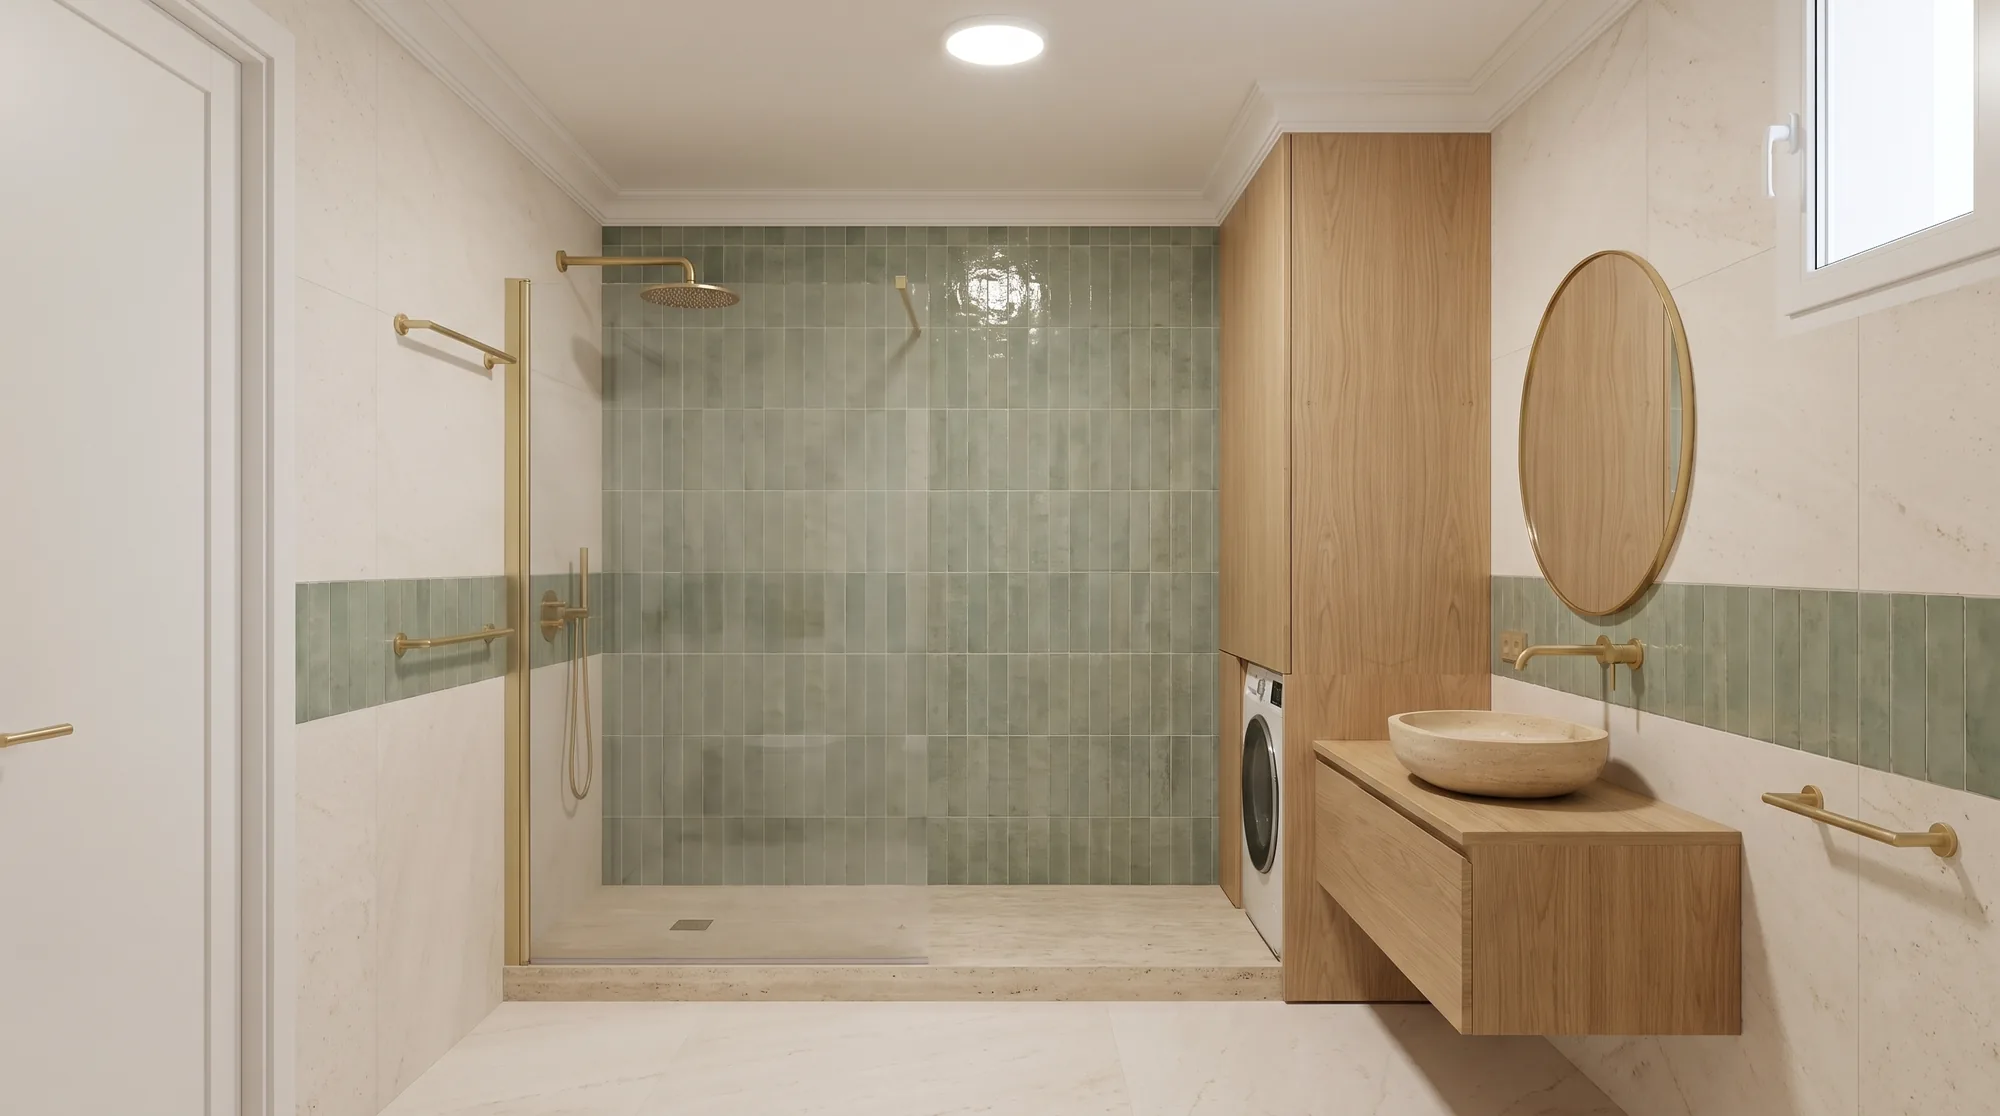
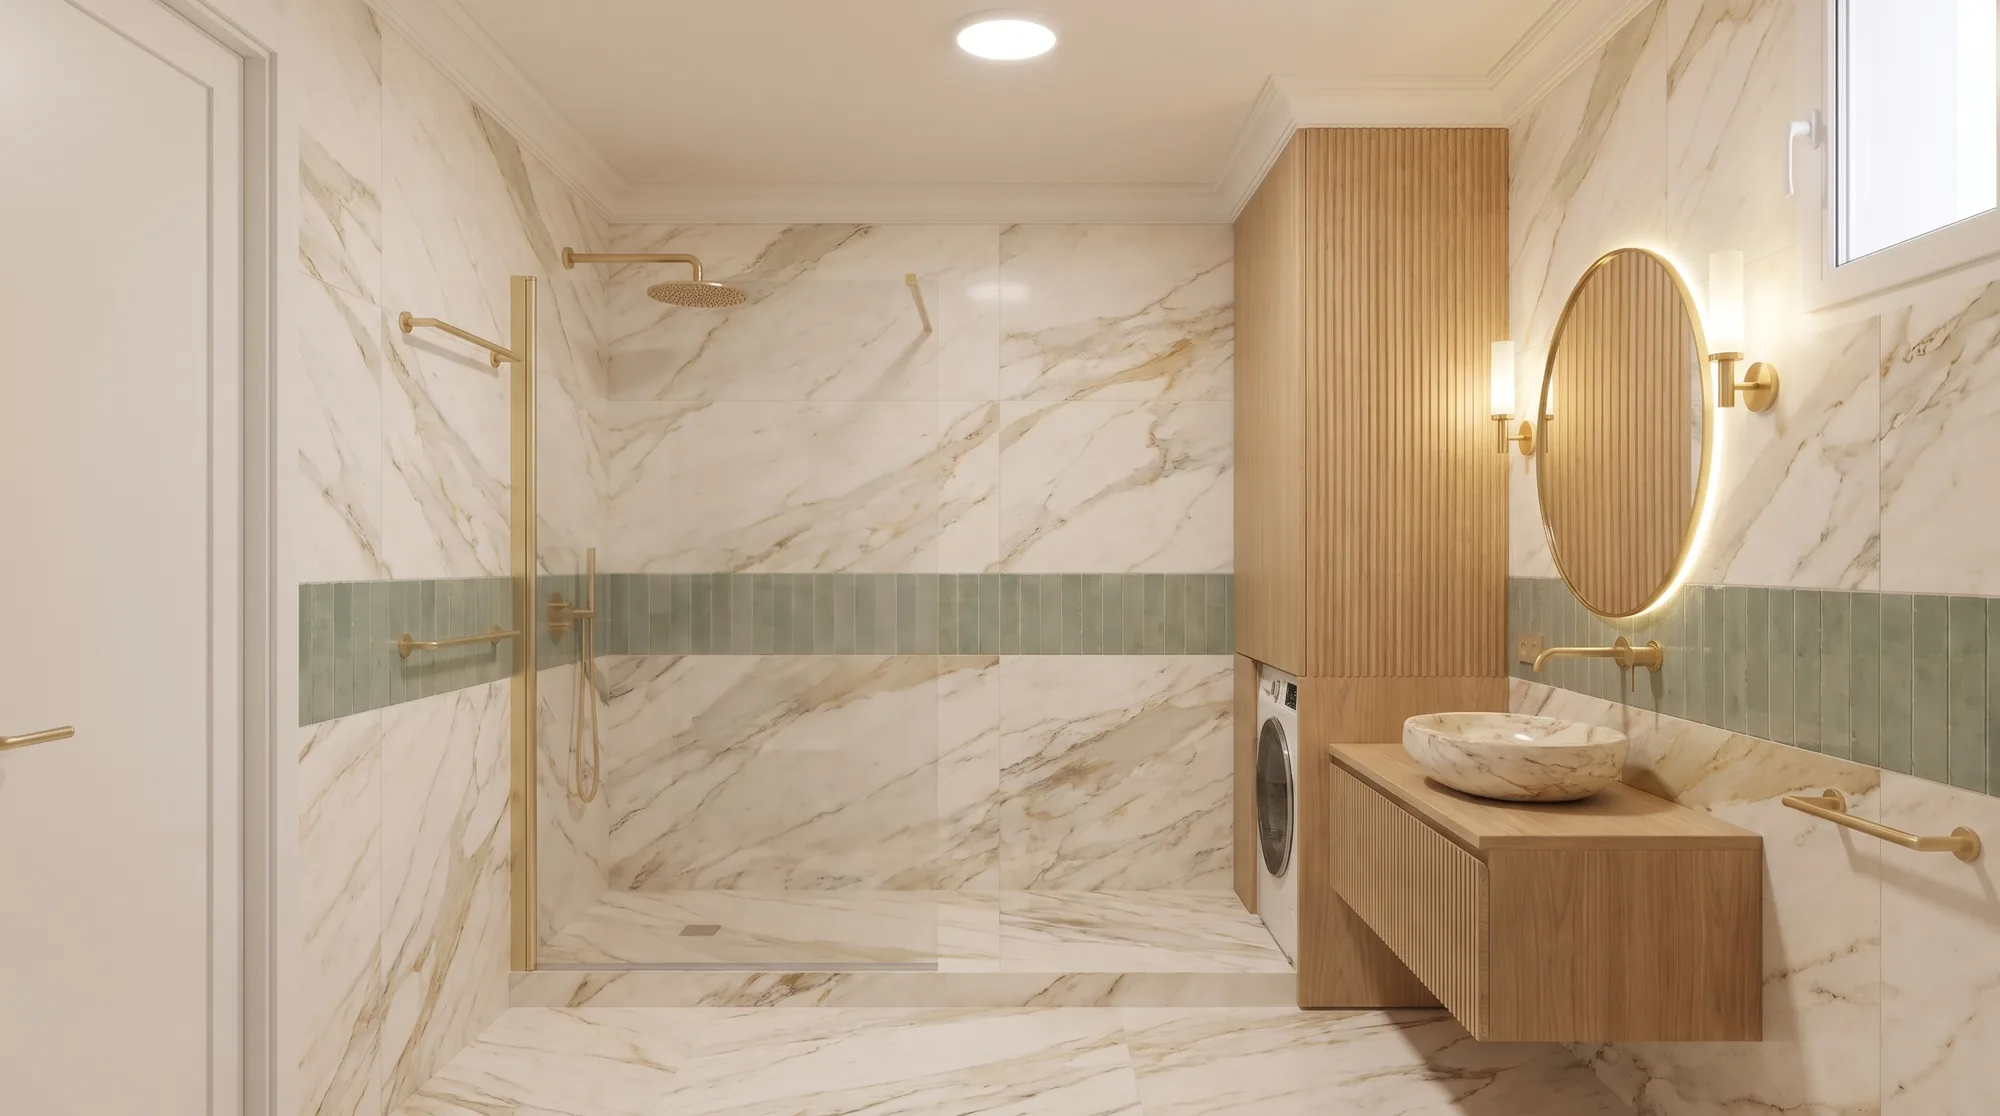
L2: luxusabb felülnézet és enteriőrök
Claude-Session: https://claude.ai/code/session_018xvr5icGNy1B7YPTSB9UEA

diff --git a/index.html b/index.html
@@ -602,12 +602,12 @@ footer li{list-style:none;margin-bottom:8px}
         </div>
         <p class="fp-note fp-note-plan"><b>Alaprajz a tervek alapján.</b> Az alaprajz és a felülnézet a jóváhagyott tervrajz szerinti elrendezést mutatja; a helyiségenkénti területek számított, tájékoztató értékek, a lakás hivatalos hasznos alapterülete 54,34 m².</p>
         <div class="fp-gal">
-          <figure class="lbx" data-cap="Nappali"><img src="images/lakasok/l2-nappali.webp" alt="Nappali – zsályazöld bársonykanapé az üvegfal előtt, két fotel, travertin dohányzóasztal, TV a falon" loading="lazy"><figcaption>Nappali</figcaption></figure>
-          <figure class="lbx" data-cap="Konyha"><img src="images/lakasok/l2-konyha.webp" alt="Konyha – egysoros konyha mosogatógéppel, mosogatóval és főzőlappal, felette üvegtégla sáv, balra hűtő- és magasszekrény" loading="lazy"><figcaption>Konyha</figcaption></figure>
-          <figure class="lbx" data-cap="Konyha és étkező"><img src="images/lakasok/l2-konyha-etkezo.webp" alt="Konyha és étkező – zsályazöld és világos tölgy konyhabútor travertin pulttal, kerek étkezőasztal" loading="lazy"><figcaption>Konyha és étkező</figcaption></figure>
-          <figure class="lbx" data-cap="Hálószoba"><img src="images/lakasok/l2-haloszoba.webp" alt="Hálószoba – kárpitozott franciaágy, zsályazöld ágynemű, kilátás a gardróbra" loading="lazy"><figcaption>Hálószoba</figcaption></figure>
-          <figure class="lbx" data-cap="Fürdőszoba"><img src="images/lakasok/l2-furdoszoba.webp" alt="Fürdőszoba – zuhany zsályazöld csempével, beépített mosógép, kerek kőmosdó tölgy pultszekrényen, sárgaréz szerelvények" loading="lazy"><figcaption>Fürdőszoba</figcaption></figure>
-          <figure class="lbx" data-cap="Gardrób"><img src="images/lakasok/l2-gardrob.webp" alt="Gardrób – világos tölgy szekrényfalak, bordázott üvegajtók, rejtett világítás" loading="lazy"><figcaption>Gardrób</figcaption></figure>
+          <figure class="lbx" data-cap="Nappali"><img src="images/lakasok/l2-nappali.webp" alt="Nappali – zsályazöld bársonykanapé, elefántcsont fotelek, Calacatta Oro márvány asztal, kristálycsillár" loading="lazy"><figcaption>Nappali</figcaption></figure>
+          <figure class="lbx" data-cap="Konyha"><img src="images/lakasok/l2-konyha.webp" alt="Konyha – zsályazöld lakkozott frontok, Calacatta Oro márvány pult és hátfal, sárgaréz részletek, üvegtégla sáv" loading="lazy"><figcaption>Konyha</figcaption></figure>
+          <figure class="lbx" data-cap="Konyha és étkező"><img src="images/lakasok/l2-konyha-etkezo.webp" alt="Konyha és étkező – kerek márvány étkezőasztal bársonyszékekkel, kristálycsillár" loading="lazy"><figcaption>Konyha és étkező</figcaption></figure>
+          <figure class="lbx" data-cap="Hálószoba"><img src="images/lakasok/l2-haloszoba.webp" alt="Hálószoba – elefántcsont bársony ágytámla, selyem ágynemű, márvány éjjeliszekrények, kilátás a gardróbba" loading="lazy"><figcaption>Hálószoba</figcaption></figure>
+          <figure class="lbx" data-cap="Fürdőszoba"><img src="images/lakasok/l2-furdoszoba.webp" alt="Fürdőszoba – Calacatta Oro márvány, zuhany, beépített mosógép, kőmosdó, sárgaréz szerelvények" loading="lazy"><figcaption>Fürdőszoba</figcaption></figure>
+          <figure class="lbx" data-cap="Gardrób"><img src="images/lakasok/l2-gardrob.webp" alt="Gardrób – világos tölgy és sárgaréz, márvány sziget ékszerfiókokkal, kristálycsillár" loading="lazy"><figcaption>Gardrób</figcaption></figure>
         </div>
         <p class="fp-note"><b>Tájékoztató jellegű látványképek.</b> A belső képek illusztrációk: a berendezés, a bútorok, a világítás és az anyaghasználat a hangulatot mutatják, nem képezik az eladás tárgyát.</p>
       </article>
